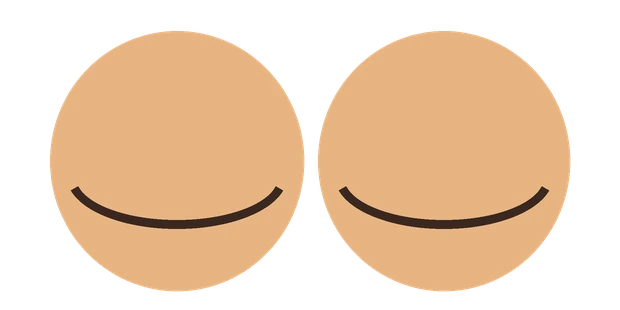
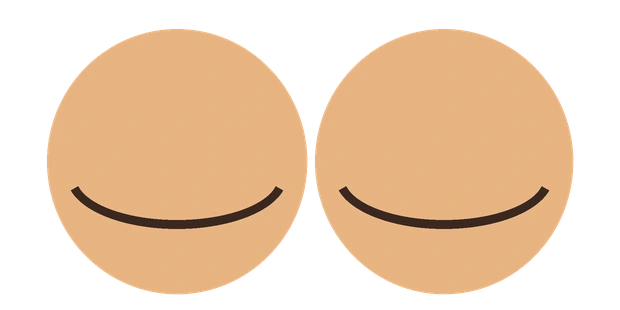
Mascotte: sguardo senza puntini bianchi, meno battiti di ciglia, sbadiglio dopo 20 secondi di silenzio

diff --git a/brand-extras.js b/brand-extras.js
@@ -252,6 +252,8 @@
   /* Un tocco sulla mascotte, in qualsiasi schermata, la fa saltare (home, mappa, player) */
   function hopMascot(shell) {
     if (!shell) return;
+    var br = shell.querySelector(".mascot-breathing-shell");
+    if (br) { br._idleSec = 0; if (br._yawnCancel) br._yawnCancel(); }
     shell.classList.remove("is-hopping");
     void shell.offsetWidth;
     shell.classList.add("is-hopping");
@@ -308,7 +310,7 @@
     }, 130);
   }
   function glance(sh) {
-    var w = placeEyes(sh); if (!w || w.classList.contains("is-blink")) return;
+    var w = placeEyes(sh); if (!w || w.classList.contains("is-blink") || sh._yawning) return;
     var cls = Math.random() < 0.5 ? "is-look-sx" : "is-look-dx";
     w.classList.add(cls);
     setTimeout(function () { w.classList.remove(cls); }, 1100 + Math.random() * 700);
@@ -319,6 +321,32 @@
       loop(fn, min, spread, onlyIdle);
     }, min + Math.random() * spread);
   }
+
+  /* Dopo 20 secondi senza parlare: sbadiglio (bocca a «o», occhi chiusi, si stira un poco), poi torna com'era */
+  function yawn(sh) {
+    var img = sh.querySelector("img:not([class*='mascot-eye'])"), w = placeEyes(sh);
+    if (!img || !w) return;
+    var orig = img.getAttribute("src") || "", open = orig.replace(/mascotte_[A-HX]\.webp/, "mascotte_F.webp");
+    if (open === orig) return;
+    var ms = sh.closest(".mascot-motion-shell") || sh;
+    sh._yawning = true;
+    img.setAttribute("src", open); w.classList.add("is-blink"); ms.classList.remove("is-yawning"); void ms.offsetWidth; ms.classList.add("is-yawning");
+    var done = function () {
+      if (!sh._yawning) return;
+      sh._yawning = false; clearTimeout(sh._yawnTimer);
+      ms.classList.remove("is-yawning"); w.classList.remove("is-blink");
+      if (!sh.classList.contains("is-speaking")) img.setAttribute("src", orig);
+    };
+    sh._yawnCancel = done;
+    sh._yawnTimer = setTimeout(done, 2300);
+  }
+  setInterval(function () {
+    visibleShells(false).forEach(function (sh) {
+      if (sh.classList.contains("is-speaking")) { sh._idleSec = 0; return; }
+      sh._idleSec = (sh._idleSec || 0) + 1;
+      if (sh._idleSec >= 20 && !sh._yawning) { sh._idleSec = -20; yawn(sh); }
+    });
+  }, 1000);
   function greet() {
     document.querySelectorAll(".mascot-motion-shell").forEach(function (sh) {
       if (!sh.offsetParent) return;
@@ -327,7 +355,7 @@
     });
   }
   if (!reducedMotion) {
-    loop(function (sh) { blinkOnce(sh, Math.random() < 0.25 ? 2 : 1); }, 2600, 3600, false);
+    loop(function (sh) { if (!sh._yawning) blinkOnce(sh, Math.random() < 0.15 ? 2 : 1); }, 5500, 6500, false);
     loop(glance, 6500, 5500, true);
     var titleEl = document.getElementById("detail-title-text");
     if (titleEl) new MutationObserver(function () { setTimeout(greet, 350); }).observe(titleEl, { childList: true, characterData: true, subtree: true });

diff --git a/index.html b/index.html
@@ -16,7 +16,7 @@
     />
     <link rel="stylesheet" href="design-system.css?v=20261001-a11y-audit" />
     <link rel="stylesheet" href="theme-vicopisano.css?v=20261117-petrona" />
-    <link rel="stylesheet" href="style.css?v=20261118-zd" />
+    <link rel="stylesheet" href="style.css?v=20261118-ze" />
   </head>
   <body class="tp-theme-vicopisano">
 <div class="tp-splash" id="tp-splash" aria-hidden="true"><svg xmlns="http://www.w3.org/2000/svg" viewBox="-139.2 50 478.5 100" role="img" aria-label="Comune di Vicopisano"><style>
@@ -577,7 +577,7 @@
     <script src="multilingual-data.js?v=20261111-multilingue"></script>
     <script src="multilingual-extra.js?v=20261117-zhar"></script>
     <script src="app.js?v=20261118-x"></script>
-    <script src="brand-extras.js?v=20261118-zd"></script>
+    <script src="brand-extras.js?v=20261118-ze"></script>
     <script src="brand-guide.js?v=20261118-a"></script>
   </body>
 </html>

diff --git a/style.css b/style.css
@@ -10330,3 +10330,13 @@ body.is-mobile-map-player-mode .map-explore-mascot, body.is-mobile-map-player-mo
 }
 .mascot-motion-shell.is-greeting { animation: tp-mascot-greet 1100ms cubic-bezier(0.3, 0.7, 0.4, 1) both; transform-origin: center bottom; }
 @media (prefers-reduced-motion: reduce) { .mascot-motion-shell.is-greeting, .mascot-eyes { animation: none; display: none; } }
+
+/* Sbadiglio: si stira un poco verso l'alto e torna giù */
+@keyframes tp-mascot-yawn {
+  0%   { translate: 0 0; scale: 1 1; }
+  35%  { translate: 0 -7px; scale: 0.98 1.05; }
+  70%  { translate: 0 -7px; scale: 0.98 1.05; }
+  100% { translate: 0 0; scale: 1 1; }
+}
+.mascot-motion-shell.is-yawning { animation: tp-mascot-yawn 2200ms ease-in-out both; transform-origin: center bottom; }
+@media (prefers-reduced-motion: reduce) { .mascot-motion-shell.is-yawning { animation: none; } }
